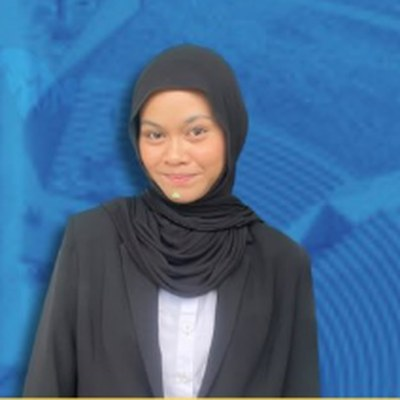
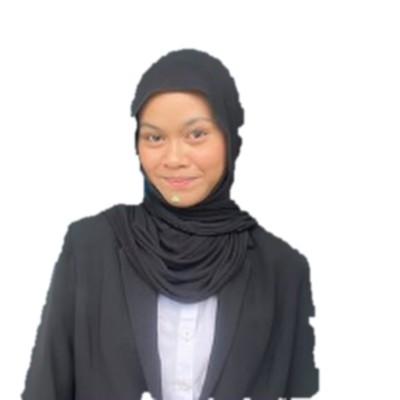
Oprec: tambah poster kualifikasi & QR; foto Diah berlatar putih
Claude-Session: https://claude.ai/code/session_01Kxrc59r49cdHqBKQhctGB6

diff --git a/lib/beritaLokal.js b/lib/beritaLokal.js
@@ -12,6 +12,7 @@ const key = () => `lokal${++k}`
 const span = (text) => ({ _type: 'span', _key: key(), text, marks: [] })
 const p = (text) => ({ _type: 'block', _key: key(), style: 'normal', markDefs: [], children: [span(text)] })
 const h2 = (text) => ({ _type: 'block', _key: key(), style: 'h2', markDefs: [], children: [span(text)] })
+const img = (url, caption) => ({ _type: 'image', _key: key(), url, caption })
 const li = (text) => ({ _type: 'block', _key: key(), style: 'normal', listItem: 'bullet', level: 1, markDefs: [], children: [span(text)] })
 // Paragraf dengan tautan: plink('Teks sebelum ', 'teks tautan', 'https://...', ' teks sesudah.')
 const plink = (sebelum, teksLink, href, sesudah = '') => {
@@ -43,6 +44,28 @@ export const beritaLokal = [
       li('Kesempatan mewujudkan ide menjadi program nyata.'),
       li('Raih pengalaman berorganisasi dan berdampak bagi daerah.'),
 
+      h2('Bidang yang Dibuka'),
+      li('PSDM (Pengembangan Sumber Daya Manusia)'),
+      li('Public Relations (PR)'),
+      li('Riset dan Inovasi'),
+
+      h2('Kualifikasi'),
+      li('Berusia 19–27 tahun.'),
+      li('Berdomisili di Provinsi Kalimantan Tengah (diutamakan Kota Palangka Raya).'),
+      li('Mahasiswa/i aktif minimal semester 3, atau pemuda/i umum yang peduli terhadap pengembangan pemuda, riset, dan inovasi.'),
+      li('Memiliki semangat belajar, kreativitas, inisiatif, dan mampu bekerja sama dalam tim.'),
+      li('Bertanggung jawab, komunikatif, dan memiliki komitmen berorganisasi.'),
+      li('Bersedia aktif dalam kegiatan dan program Langkah Inovasi Indonesia (LII).'),
+      li('Memiliki kemauan untuk terus belajar, berkembang, dan meningkatkan kapasitas diri.'),
+      li('Siap berkomitmen selama satu periode kepengurusan (Desember 2026 – November 2029).'),
+
+      h2('Benefit'),
+      li('Sertifikat resmi.'),
+      li('Mentoring bersama profesional.'),
+      li('Memperluas relasi dan networking.'),
+      li('Kesempatan berkolaborasi dan terlibat dalam berbagai program inovatif.'),
+      li('Ruang untuk belajar, berkarya, dan menciptakan dampak nyata.'),
+
       h2('Alur Pendaftaran dan Seleksi'),
       li('Pendaftaran berkas: 2–30 November 2026'),
       li('Seleksi berkas: 1–4 Desember 2026'),
@@ -55,6 +78,7 @@ export const beritaLokal = [
 
       h2('Cara Mendaftar'),
       plink('Pendaftaran dapat dilakukan melalui tautan resmi Open Recruitment LII berikut: ', 'q.me-qr.com/zjg0mt9c', 'https://q.me-qr.com/zjg0mt9c', '. Buka tautan tersebut, lalu ikuti petunjuk dan lengkapi berkas pendaftaran sebelum 30 November 2026.'),
+      img('/berita/open-recruitment-2026-kualifikasi.jpg', 'Scan QR Code pada poster atau buka q.me-qr.com/zjg0mt9c untuk mendaftar.'),
       p('Untuk pertanyaan seputar pendaftaran, hubungi narahubung Kak Gretha di 0895-6159-16589.'),
       plink('Lihat juga ', 'pengumuman resmi di Instagram LII', 'https://www.instagram.com/p/DfpiDoDkjg4/', ', dan ikuti @kamufest.kalteng untuk kabar kegiatan kepemudaan lainnya.'),
       p('Jangan sampai ketinggalan! Ini saatnya kamu tumbuh, berkontribusi, dan menjadi bagian dari gerakan pemuda untuk Kalimantan Tengah. #BersamaKitaBerdampak'),
